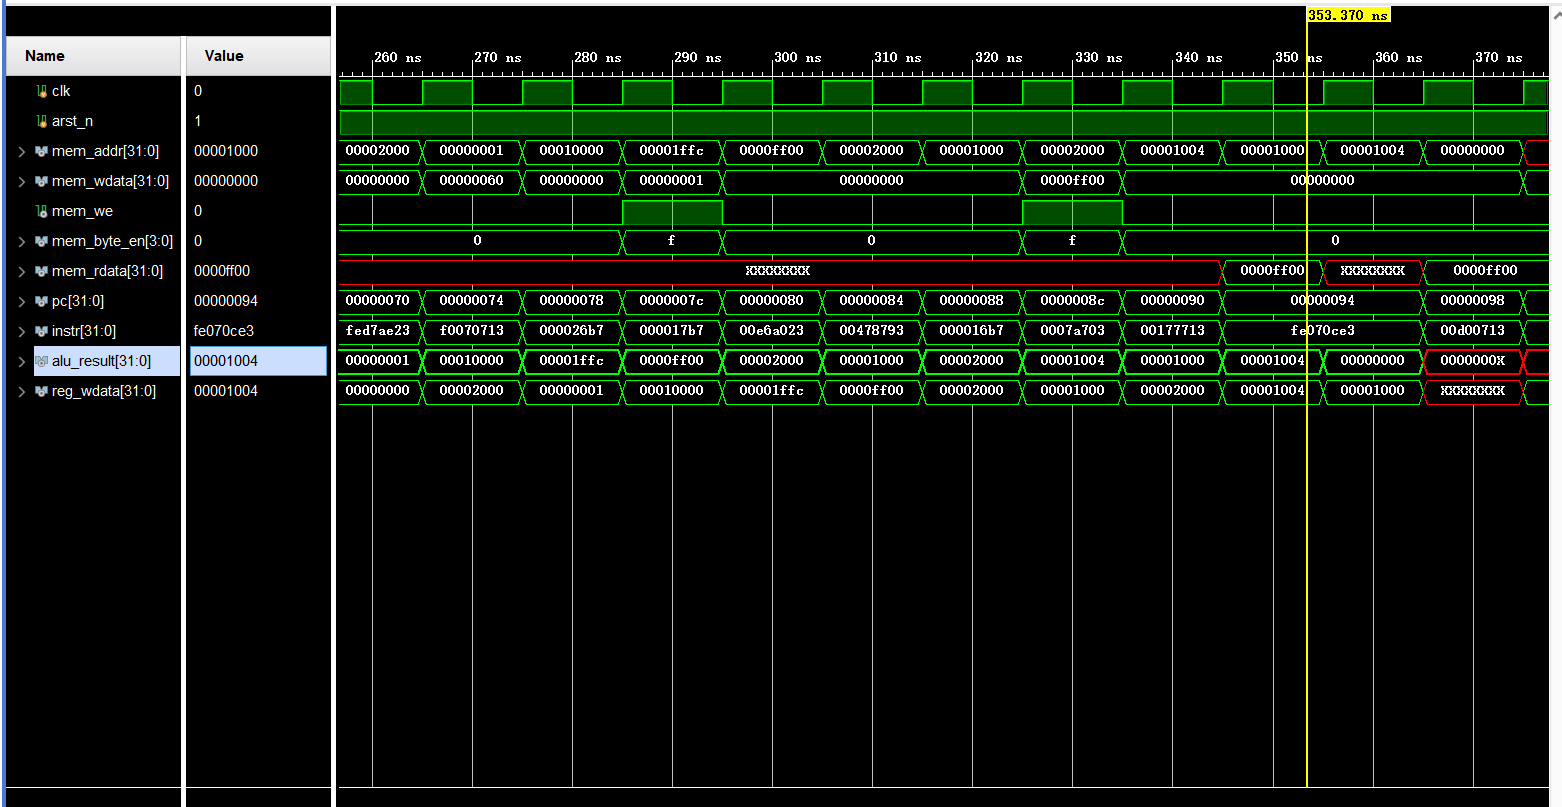
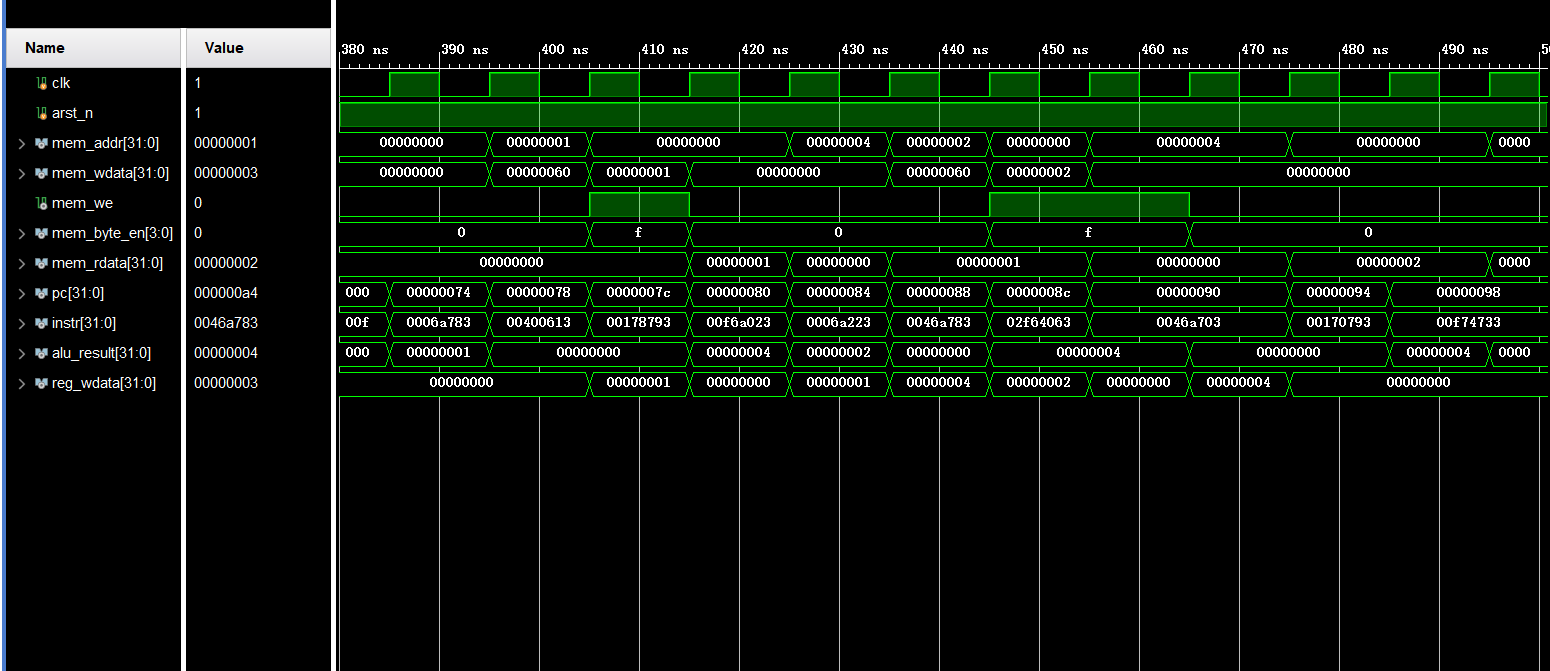
done praly

diff --git a/README.md b/README.md
@@ -42,13 +42,13 @@ The SoC adds the bus and the peripherals:
 
 ```mermaid
 flowchart LR
-    CPU[cpu with imem] -->|memory port| BUS[simple_bus]
-    BUS --> DMEM[dmem]
-    BUS --> UART[uart]
-    BUS --> GPIO[gpio]
+    CPU[cpu with imem] <-->|addr/control + data| BUS[simple_bus]
+    BUS <--> DMEM[dmem]
+    BUS <--> UART[uart]
+    BUS <--> GPIO[gpio]
     UART <-->|uart_tx / uart_rx| FTDI[FTDI USB bridge]
-    GPIO -->|gpio_out| LED[LEDs]
     SW[switches] -->|gpio_in| GPIO
+    GPIO -->|gpio_out| LED[LEDs]
 ```
 
 **File layout**
